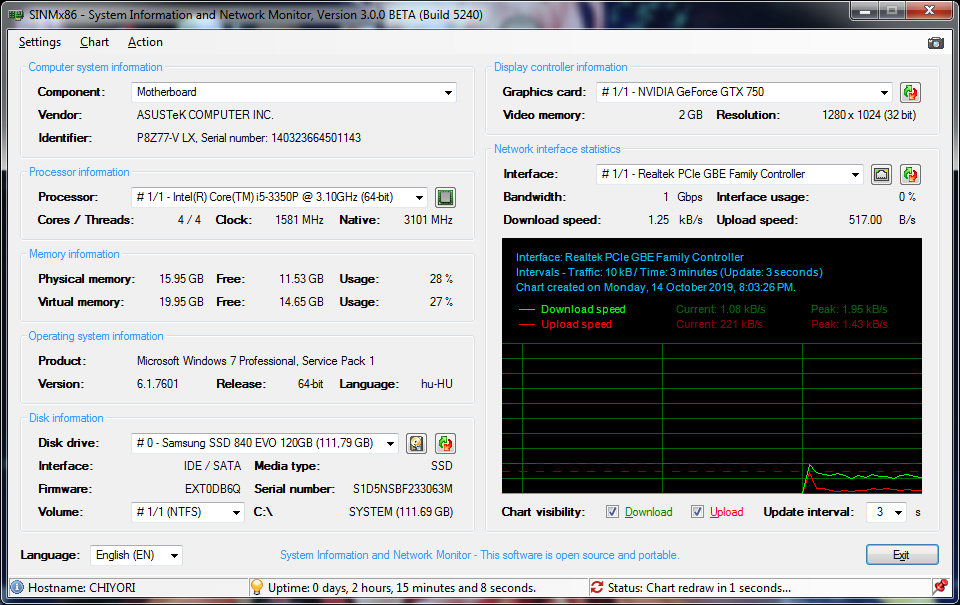
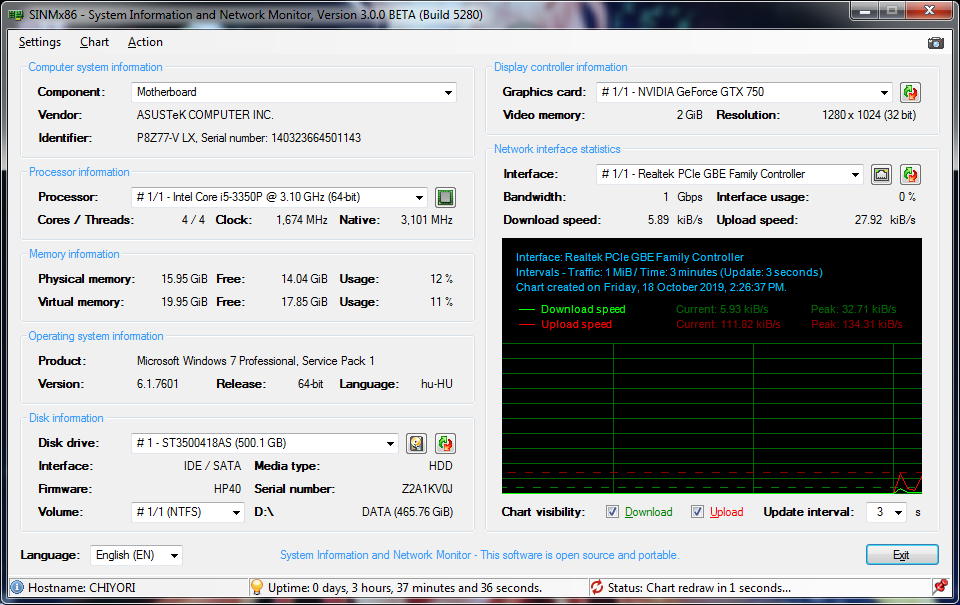
Open tag: v3.0.0 Build 5280 BETA

diff --git a/README.md b/README.md
@@ -21,12 +21,14 @@ __License:__ GNU General Public License v2.0.
 
 ## Changelog since version 2.1.0 (Hungarian only)
 
-__2019-10-17 - Version 3.0.0 BETA / Build 5275 (testing)__
+__2019-10-18 - Version 3.0.0 BETA / Build 5280 (testing)__
 
+- Hiba- és állapotkezelő rendszer létrehozása betöltődéskor,
+- Szelektív S.M.A.R.T rekord kezelés, adathordozó típus függvényében,
 - CPU-Infó: Gyártói sztringek lecserélése a valódi névre,
-- Listákban szereplő nevek rövidítése egyes feleges karakterekkel,
+- Listákban szereplő nevek rövidítése egyes felesleges karakterekkel,
 - Celsius/Fahrenheit átszámítás a lemez hőmérsékletnél,
-- Közös függvények leválasztása főablakról (Functions.vb),
+- Közös függvények és változók leválasztása főablakról (Functions.vb),
 - SI és bináris prefixum korrekció, kibi (ki): 1024/kilo (k): 1000,
 - Nagyságrend (1000-es) elválasztó hozzáadása hosszú számoknál,
 - Kód tisztítása, néhány konverziós függvény átértelmezése,
